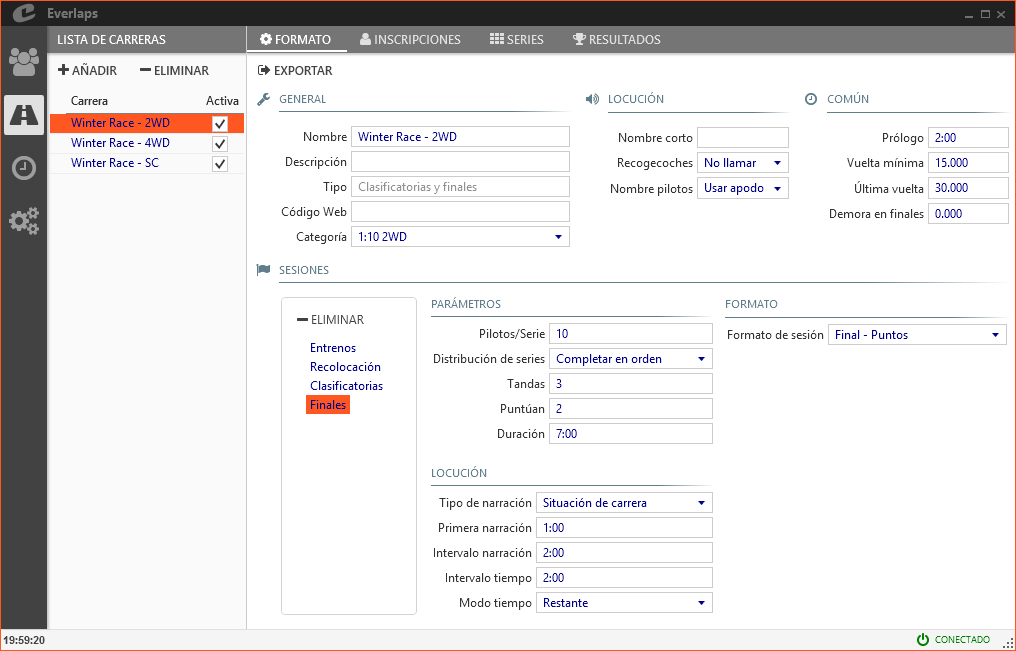
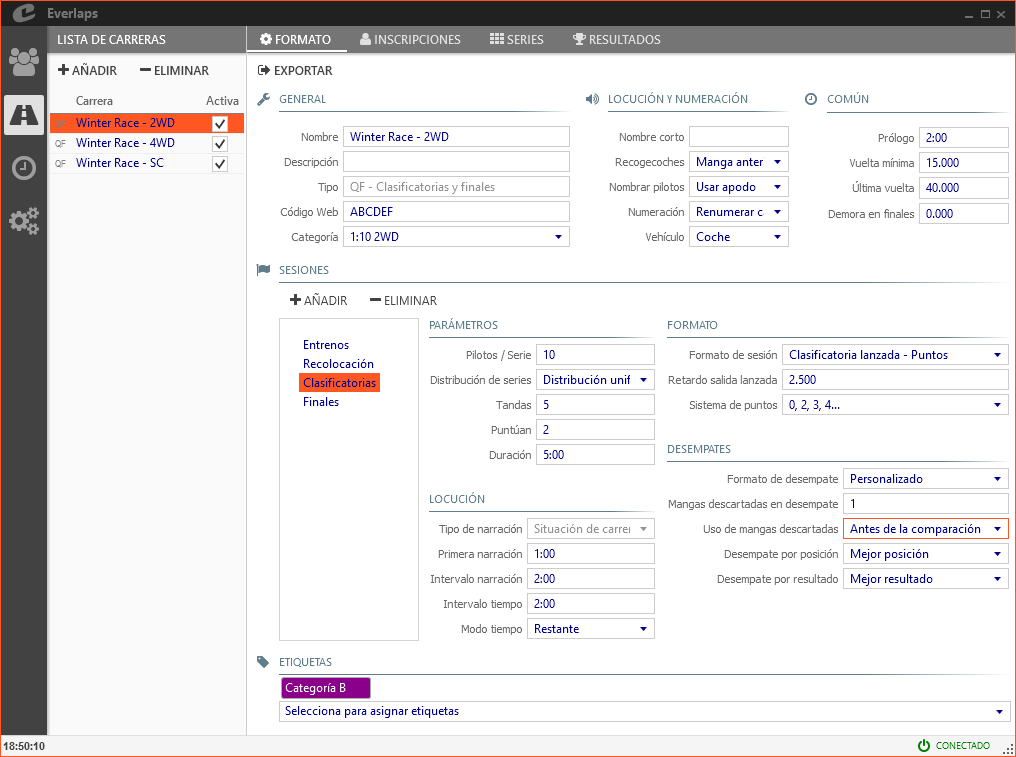
Added info about tags new tie break system

diff --git a/docs/race-formats/qualify-finals.md b/docs/race-formats/qualify-finals.md
@@ -2,9 +2,7 @@
 
 ![Clasificatorias y finales](../img/qualy-finals.png)
 
-El formato de carrera de clasificatorias y finales define varias sesiones en las que siempre se efectúa una división del total de los pilotos inscritos en series.
-
-Por defecto se crean sesiones de entrenamiento, recolocación, clasificatorias y finales, de las cuales las dos primeras pueden eliminarse si no se van a utilizar durante la carrera.
+El formato de carrera de *Clasificatorias y Finales* define por defecto las sesiones de entrenamiento, recolocación, clasificatorias y finales, de las cuales las dos primeras pueden eliminarse si no se van a utilizar durante la carrera.
 
 ---
 
@@ -64,6 +62,7 @@ Por defecto se crean sesiones de entrenamiento, recolocación, clasificatorias y
 
 ##### Acciones disponibles
 
+- **Añadir**: Permite añadir una nueva sesión de entrenamiento, recolocación (si no existe) o de formato personalizado.
 - **Eliminar**: Permite eliminar la sesión seleccionada.
 
 ---
@@ -127,15 +126,13 @@ Por defecto se crean sesiones de entrenamiento, recolocación, clasificatorias y
 	- **Finales**: Salida desde parado y en orden de parrilla, con el arranque del cronómetro en el instante de sonido de la bocina.
 	
 	- **Entrenos (puntos o mejor resultado)**: Similar a la clasificatoria volante, pero el crono se inicia con el sonido de la bocina en vez de esperar a la primera pasada.
-
----
+	
+!!! info ""
+	Se puede modificar el formato en cualquier momento aunque ya se hayan disputado mangas de la sesión. El sistema recalcula los resultados en función de los nuevos parámetros y de las vueltas almacenadas.
 
 ##### Formato personalizado
 
 Permite configurar cada uno de los parámetros.
-
-!!! info ""
-	Es útil partir de un formato estándar seleccionándolo para que rellene correctamente todos los parámetros, y luego seleccionar el formato personalizado para hacer alguna modificación. Por ejemplo, para definir una clasificatoria lanzada pero luego poder modificar el sistema de puntuación para que el primer clasificado obtenga 1 punto en vez de 0. 
 
 - **Arranque crono**: Define cuándo arranca el cronómetro.
 
@@ -191,14 +188,34 @@ Permite configurar cada uno de los parámetros.
 
 - **Sistema de puntos**: Establece el sistema de puntuación de entre los soportados por el programa.
 
+- **Series con tandas completas**: Establece una división en cuanto al número de mangas que puntúan para cada serie. Esto es útil para, por ejemplo en finales, permitir que la serie A corra 3 finales puntuando 2 de ellas, y las series de la B en adelante sólo una única final.
+
+	- **Todas las series**: Todas las series puntúan exactamente con el mismo número de mangas. No existe distinción entre series respecto al número de tandas y mangas puntuables.
+	
+	- **Primeras series**: Las primeras series puntúan el número de mangas establecido en la configuración general de la sesión y el resto el valor establecido en *Tandas en series inferiores*.
+	
+		- **Hasta la serie**: Define hasta que serie (inclusive) se disputan todas las mangas de forma normal. Por ejemplo si sólo se quieren 3 finales para la serie A, este valor debe ser 1.
+		- **Tandas en series inferiores**: Número de tandas que puntúan para las series inferiores. Por ejemplo 1 para que las series por debajo de la A puntúen sólo una manga.
+
 ---
 
-**DESEMPATES**: En caso de que varios pilotos obtengan exactamente el mismo resultado en el global de las mangas a contabilizar para la sesión, se establece el siguiente sistema de desempate.
+##### Desempates
+
+Permite establecer la forma de solucionar los empates, en caso de que varios pilotos obtengan exactamente la misma puntuación en el global de las mangas a contabilizar para la sesión.
+
+- **Formato de desempate**
+	- **Por defecto**: Se utilizan únicamente las mangas válidas, comparando primero por posición, y en caso de proseguir el empate, por resultado.
+	- **Personalizado**: Permite establecer todas las propiedades de resolución de empates.
+	
+##### Formato personalizado de desempates
 
 - **Mangas descartadas en desempate**: Cuántas mangas descartadas se utilizarán para resolver el desempate. El valor 0 indica que no se utilizará ninguna manga descartada.
 - **Uso de mangas descartadas**: Establece en qué momento se utilizan los resultados de las mangas descartadas.
 	- **Antes de la comparación individual de mangas válidas**: Se utiliza la comparación individual de las mangas descartadas ANTES de la comparación individual de las mangas válidas.
-	- **Después de la comparación individual de mangas válidas**: Se utiliza la comparación individual de las mangas descargadas DESPUÉS de la comparación individual de las mangas válidas. *Por ejemplo, en una clasificatorias de 5 tandas en donde puntúan las 3 mejores y no pudiendo resolver el desempate se utilizaría la cuarta mejor manga de los pilotos, y en caso de seguir el empate, la quinta mejor manga, antes de comparar las posiciones de las tres mejores mangas.*
+	- **Después de la comparación individual de mangas válidas**: Se utiliza la comparación individual de las mangas descargadas DESPUÉS de la comparación individual de las mangas válidas. 
+	
+		*Por ejemplo, en una clasificatorias de 5 tandas en donde puntúan las 3 mejores y no pudiendo resolver el desempate se utilizaría la cuarta mejor manga de los pilotos, y en caso de seguir el empate, la quinta mejor manga, antes de comparar las posiciones de las tres mejores mangas.*
+
 - **Desempate por posición**: Establece el modo de comparación individual por posición obtenida en cada una de las mangas (sólo si el resultado es por puntos)
 	- **Mejor posición**: Utiliza el modo de comparación por posición obtenida.
 	- **No usar**: No utilizar el desempate por posición.
@@ -214,14 +231,6 @@ Permite configurar cada uno de los parámetros.
 
 ---
 
-- **Series con tandas completas**: Establece una división en cuanto al número de mangas que puntúan para cada serie. Esto es útil para, por ejemplo en finales, permitir que la serie A corra 3 finales puntuando 2 de ellas, y las series de la B en adelante sólo una única final.
+#### Etiquetas
 
-	- **Todas las series**: Todas las series puntúan exactamente con el mismo número de mangas. No existe distinción entre series respecto al número de tandas y mangas puntuables.
-	
-	- **Primeras series**: Las primeras series puntúan el número de mangas establecido en la configuración general de la sesión y el resto el valor establecido en *Tandas en series inferiores*.
-	
-		- **Hasta la serie**: Define hasta que serie (inclusive) se disputan todas las mangas de forma normal. Por ejemplo si sólo se quieren 3 finales para la serie A, este valor debe ser 1.
-		- **Tandas en series inferiores**: Número de tandas que puntúan para las series inferiores. Por ejemplo 1 para que las series por debajo de la A puntúen sólo una manga.
-	
-!!! info ""
-	Se puede modificar el tipo de resultado en cualquier momento aunque se hayan lanzado mangas con el formato anterior. El sistema recalcula los resultados en función de los nuevos parámetros y de las vueltas almacenadas.
+Permite asignar etiquetas a la carrera. Más información en la sección de [Etiquetas](../common-tasks/tags/index.html).

diff --git a/docs/common-tasks/tags.md b/docs/common-tasks/tags.md
@@ -1,0 +1,34 @@
+## &fa-tag; Etiquetas
+
+Everlaps permite crear etiquetas personalizadas y asignarlas a pilotos y carreras
+
+---
+
+### Etiquetas asignadas a pilotos
+
+![Pilotos](../img/driver-tags.png)
+
+Las etiquetas asignadas a los pilotos permiten localizar rápidamente un piloto introduciendo el nombre de cualquier etiqueta en los campos de búsqueda de las vistas de [pilotos](../user-guide/drivers/index.html), [inscripciones](../user-guide/races/index.html#inscripciones) o [series](../user-guide/races/index.html#series).
+
+Algunos ejemplos de uso de las etiquetas para identificar a los pilotos pueden ser:
+
+ * Socios: permitiría localizar a los socios del club dentro de las inscripciones de una carrera
+ * Provincia: en las sesiones iniciales los pilotos de la misma comunidad se podrían agrupar en series
+ * Categorías: si para el resultado final existe alguna distinción en cuanto a categorías (junior, +40, etc...) se podrían agrupar los pilotos de las mismas categorías en series
+
+ ---
+ 
+### Etiquetas asignadas a carreras (inscripciones)
+
+![Carreras](../img/inscription-tags.png)
+
+Cuando las etiquetas se asignan a una [carrera](../race-formats/qualify-finals/index.html#etiquetas), aparece una nueva columna en la vista de [inscripciones](../user-guide/races/index.html#inscripciones) que permite asignar la etiqueta correspondiente a cada piloto, de tal forma que durante la carrera se puedan generar resultados independientes filtrando por etiqueta.
+
+Este sistema permite introducir muy fácilmente en la carrera alguna categoría que deriva en una final diferente a la final principal. 
+
+Ejemplo:
+
+ * En una carrera se introduce la *Categoría B* para aquellos pilotos que son novatos. Todos los pilotos correrían las clasificatorias conjuntamente, pero a la hora de pasar a las finales (o subfinales) se quiere que los pilotos de la *Categoría B* corran una final independiente (en una nueva sesión perteneciente a la misma carrera). A la hora de generar las series de esa final, se podría filtrar por la etiqueta de *Categoría B* para que la generación automática de las series basada en los resultados de las clasificatorias, sólamente tenga en cuenta a los pilotos de dicha categoría.
+
+!!! info ""
+	Cuando se asigna una etiqueta a una carrera y algún piloto tiene esa etiqueta asignada, automáticamente en la inscripción de ese piloto se marca la columna correspondiente a la etiqueta.

diff --git a/docs/index.md b/docs/index.md
@@ -51,6 +51,7 @@ Esta documentación está estructurada de la siguiente forma:
 	- [**Sanciones y correcciones**](common-tasks/punishments-corrections/index.html)
 	- [**Cambiar transponders**](common-tasks/change-transponders/index.html)
 	- [**Inscripciones con la carrera en marcha**](common-tasks/late-entries/index.html)
+	- [**Etiquetas**](common-tasks/tags/index.html)
 
 ## Contacto
 

diff --git a/docs/user-guide/config.md b/docs/user-guide/config.md
@@ -165,3 +165,5 @@ Permite añadir, eliminar y modificar categorías. Por defecto se crea una lista
 #### &fa-list; Etiquetas
 
 Permite añadir, eliminar y modificar etiquetas, asignado un color identificativo junto con su descripción.
+
+El uso de las etiquetas se detalla en el apartado [Etiquetas](../common-tasks/tags/index.html)
